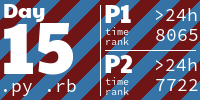
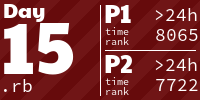
day 15

diff --git a/README.md b/README.md
@@ -48,7 +48,7 @@ My solutions to advent of code 2018!
 <a href="12-14-18/main.rb">
   <img src=".aoc_tiles/tiles/2018/14.png" width="161px">
 </a>
-<a href="12-15-18/main.py">
+<a href="12-15-18/main.rb">
   <img src=".aoc_tiles/tiles/2018/15.png" width="161px">
 </a>
 <!-- AOC TILES END -->
